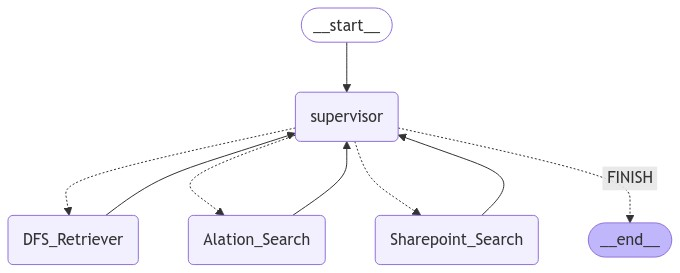
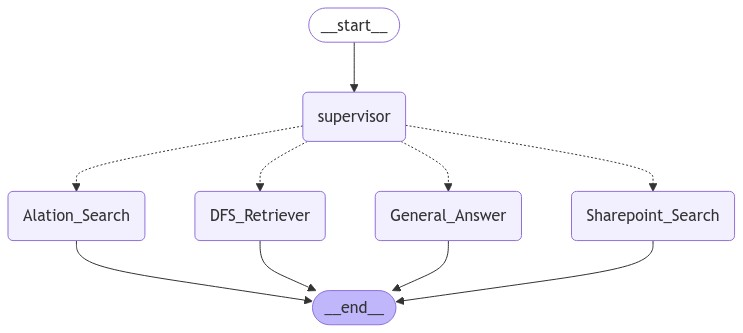
update service

diff --git a/volt/services/langagent.py b/volt/services/langagent.py
@@ -13,7 +13,7 @@ from langchain_openai import ChatOpenAI
 from langchain_core.messages import BaseMessage
 from langgraph.graph import END, StateGraph, START
 from langgraph.prebuilt import create_react_agent
-from langtools import DFSRetrieverResults,AlationSearchResults,SharepointSearchResults
+from langtools import DFSRetrieverResults,AlationSearchResults,SharepointSearchResults,GeneralAnswerResults
 import sys
 import os
 parent_dir = os.path.abspath(os.path.join(os.path.dirname(__file__), '..'))
@@ -23,32 +23,24 @@ from config import Config
 dfs_retriever_tool = DFSRetrieverResults()
 alation_search_tool = AlationSearchResults()
 sharepoint_search_tool = SharepointSearchResults()
+general_answer_tool = GeneralAnswerResults()
 
-members = ["DFS_Retriever", "Alation_Search", "Sharepoint_Search"]
+members = ["DFS_Retriever", "Alation_Search", "Sharepoint_Search", "General_Answer"]
 system_prompt = (
     "You are a supervisor tasked with managing a conversation between the"
-    " following workers:  {members}. Given the following user request,"
+    " following workers: {members}. Given the following user request,"
     " respond with the worker to act next only. Each worker will perform a"
-    " task and respond with their results and status. When finished,"
-    " respond with FINISH and if no worker is called then provide best response on your ability."
+    " task and respond with their results and status. If not relevant, default BYPASS with a general answer."
 )
-options = ["FINISH"] + members
-
 class routeResponse(BaseModel):
-    next: Literal["FINISH","DFS_Retriever", "Alation_Search","Sharepoint_Search"]
+    next: Literal["DFS_Retriever", "Alation_Search", "Sharepoint_Search", "General_Answer"]
 
 prompt = ChatPromptTemplate.from_messages(
     [
         ("system", system_prompt),
         MessagesPlaceholder(variable_name="messages"),
-        (
-            "system",
-            "Given the conversation above, who should act next?"
-            " Or should we FINISH? Select one of: {options}"
-            "Always end reply wit hollabolla",
-        ),
     ]
-).partial(options=str(options), members=", ".join(members))
+).partial(options=str(members), members=", ".join(members))
 
 llm = ChatOpenAI(model="gpt-4o",api_key=Config.OPENAI_API_KEY)
 
@@ -75,24 +67,26 @@ alation_search_node = functools.partial(agent_node, agent=alation_search_agent, 
 sharepoint_search_agent = create_react_agent(llm, tools=[sharepoint_search_tool])
 sharepoint_search_node = functools.partial(agent_node, agent=sharepoint_search_agent, name="Sharepoint_Search")
 
+general_answer_agent = create_react_agent(llm, tools=[general_answer_tool])
+general_answer_node = functools.partial(agent_node, agent=general_answer_agent, name="General_Answer")
+
 workflow = StateGraph(AgentState)
 workflow.add_node("DFS_Retriever", dfs_retriever_node)
 workflow.add_node("Alation_Search", alation_search_node)
 workflow.add_node("Sharepoint_Search", sharepoint_search_node)
+workflow.add_node("General_Answer", general_answer_node)
 workflow.add_node("supervisor", supervisor_agent)
 
-for member in members:
-    workflow.add_edge(member, "supervisor")
-
 conditional_map = {k: k for k in members}
-conditional_map["FINISH"] = END
-print(conditional_map)
+
 workflow.add_conditional_edges("supervisor", lambda x: x["next"], conditional_map)
+for member in members:
+    workflow.add_edge(member, END)
 workflow.add_edge(START, "supervisor")
 
-graph = workflow.compile()
+volt_graph = workflow.compile()
 try:
-    image_data = graph.get_graph().draw_mermaid_png()
+    image_data = volt_graph.get_graph().draw_mermaid_png()
     with open("assets/graph_image.png", "wb") as f:
         f.write(image_data)
 except Exception:
@@ -100,17 +94,19 @@ except Exception:
 
 # print("=========================================")
 # for s in graph.stream({"messages": [HumanMessage(content="Provide list of alation fields.")]}):
+#     print(s)
+#     print("----")
+# print("=========================================")
+# for s in graph.stream({"messages": [HumanMessage(content="Retrieve the crtical items.")]},{"recursion_limit": 10}):
 #     if "__end__" not in s:
 #         print(s)
 #         print("----")
-print("=========================================")
-for s in graph.stream({"messages": [HumanMessage(content="Retrieve the crtical items.")]},{"recursion_limit": 10}):
-    if "__end__" not in s:
-        print(s)
-        print("----")
-print("=========================================")
+# print("=========================================")
 # for s in graph.stream({"messages": [HumanMessage(content="Retrieve sharepoint links.")]},{"recursion_limit": 10}):
 #     if "__end__" not in s:
 #         print(s)
 #         print("----")
 # print("=========================================")
+# for s in graph.stream({"messages": [HumanMessage(content="How is the weather today.")]}):
+#     print(s)
+#     print("----")

diff --git a/volt/services/langtools.py b/volt/services/langtools.py
@@ -71,4 +71,26 @@ class SharepointSearchResults(BaseTool):
     
         """Use the tool asynchronously."""
         raise NotImplementedError("Currently we do not support async call")
+
+class GeneralAnswer(BaseModel):
+    """Default Conversation."""
+
+    query: str = Field(description="Provide general respnse if a specific tool is not called.")
+
+class GeneralAnswerResults(BaseTool):
+    """Provide general response if a specific tool is not called."""
+
+    name: str = "general_pass"
+    description: str = "Provide general response if a specific tool is not called."
+    args_schema: Type[BaseModel] = GeneralAnswer
+
+    def _run(self, query: str) -> str:
+        """Use the tool."""
+        
+        results = query
+        return results
     
+    async def _arun(self, query: str) -> str:
+    
+        """Use the tool asynchronously."""
+        raise NotImplementedError("Currently we do not support async call")    
